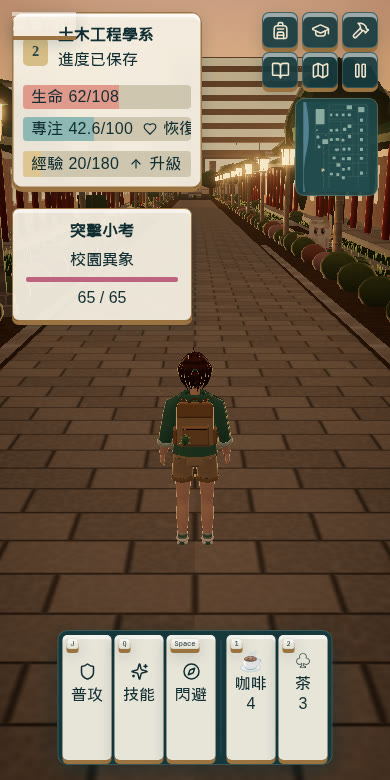
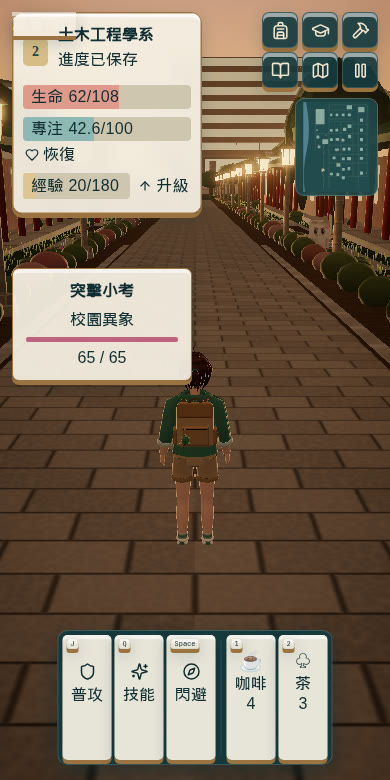
Keep status cues readable when the bar runs out of width
Cues sit outside the clipped fill and wrap onto the next line, so a 190px card still shows recovery, hurt, and low life. The narrow target card moves down with the taller status card.

Changed region(s): [[0.0308, 0.1538, 0.5231, 0.4923]]

diff --git a/src/game/rpg/AdventureHud.tsx b/src/game/rpg/AdventureHud.tsx
@@ -986,16 +986,18 @@ function LifeMeter() {
   const read = useRef(holdLife()).current;
   const bar = read(snap);
   return (
-    <div
-      className="ad-meter hp"
-      role="meter"
-      aria-valuemin={0}
-      aria-valuenow={bar.current}
-      aria-valuemax={bar.max}
-      aria-label={bar.line}
-    >
-      <i style={{ width: bar.fraction * 100 + "%" }} />
-      <span>{bar.short}</span>
+    <div className="ad-readout">
+      <div
+        className="ad-meter hp"
+        role="meter"
+        aria-valuemin={0}
+        aria-valuenow={bar.current}
+        aria-valuemax={bar.max}
+        aria-label={bar.line}
+      >
+        <i style={{ width: bar.fraction * 100 + "%" }} />
+        <span>{bar.short}</span>
+      </div>
       {bar.cues.map((cue) => (
         <StatusCueMark key={cue.id} id={cue.id} />
       ))}
@@ -1007,16 +1009,18 @@ function FocusMeter() {
   const read = useRef(holdFocus()).current;
   const bar = read({ focus });
   return (
-    <div
-      className="ad-meter focus"
-      role="meter"
-      aria-valuemin={0}
-      aria-valuenow={bar.current}
-      aria-valuemax={bar.max}
-      aria-label={bar.line}
-    >
-      <i style={{ width: bar.fraction * 100 + "%" }} />
-      <span>{bar.short}</span>
+    <div className="ad-readout">
+      <div
+        className="ad-meter focus"
+        role="meter"
+        aria-valuemin={0}
+        aria-valuenow={bar.current}
+        aria-valuemax={bar.max}
+        aria-label={bar.line}
+      >
+        <i style={{ width: bar.fraction * 100 + "%" }} />
+        <span>{bar.short}</span>
+      </div>
       {bar.cues.map((cue) => (
         <StatusCueMark key={cue.id} id={cue.id} />
       ))}
@@ -1030,16 +1034,18 @@ function ProgressMeter() {
   return (
     <>
       <span className="ad-level">{bar.level}</span>
-      <div
-        className="ad-xp"
-        role="meter"
-        aria-valuemin={0}
-        aria-valuenow={bar.current}
-        aria-valuemax={bar.max}
-        aria-label={bar.line}
-      >
-        <i style={{ width: bar.fraction * 100 + "%" }} />
-        <span>{bar.short}</span>
+      <div className="ad-readout">
+        <div
+          className="ad-xp"
+          role="meter"
+          aria-valuemin={0}
+          aria-valuenow={bar.current}
+          aria-valuemax={bar.max}
+          aria-label={bar.line}
+        >
+          <i style={{ width: bar.fraction * 100 + "%" }} />
+          <span>{bar.short}</span>
+        </div>
         {bar.cues.map((cue) => (
           <StatusCueMark key={cue.id} id={cue.id} />
         ))}

diff --git a/src/game/rpg/adventure.css b/src/game/rpg/adventure.css
@@ -297,19 +297,27 @@ textarea:focus-visible,
   display: block;
   margin-top: 3px;
 }
-.ad-meter {
-  position: relative;
+.ad-readout {
   grid-column: 1 / -1;
   display: flex;
+  flex-wrap: wrap;
   align-items: center;
-  gap: 6px;
+  gap: 4px 6px;
+  margin: 4px 0;
+}
+.ad-meter {
+  position: relative;
+  display: flex;
+  align-items: center;
+  flex: 1 1 auto;
+  min-width: min-content;
+  max-width: 100%;
   min-height: 28px;
   height: auto;
   padding: 2px 6px;
   background: #cfc6b0;
   border-radius: 4px;
   overflow: hidden;
-  margin: 4px 0;
   color: var(--ad-ink);
 }
 .ad-meter i {
@@ -343,17 +351,17 @@ textarea:focus-visible,
 }
 .ad-xp {
   position: relative;
-  grid-column: 1 / -1;
   display: flex;
   align-items: center;
-  gap: 6px;
+  flex: 1 1 auto;
+  min-width: min-content;
+  max-width: 100%;
   min-height: 26px;
   height: auto;
   padding: 2px 6px;
   background: #cfc6b0;
   border-radius: 4px;
   overflow: hidden;
-  margin-top: 6px;
   color: var(--ad-ink);
 }
 .ad-xp i {
@@ -1834,7 +1842,7 @@ textarea:focus-visible,
 }
 @media (max-width: 700px) {
   .ad-target {
-    top: 208px;
+    top: 268px;
     left: 12px;
     transform: none;
     width: 180px;

diff --git a/docs/art/KNOWN-ISSUES.md b/docs/art/KNOWN-ISSUES.md
@@ -12,7 +12,7 @@
 | KI-06 | 技能 | needs_review | 九學院都有專屬特效，也各有施放姿勢（`evidence/m2/cast-poses.jpg`）。商管金幣在單一目標上會疊成一串。普攻光刃在 0.06–0.25 秒從右側移到左側，不再放大到判定半徑（`evidence/m2/basic-swing.jpg`）。蓄力那一幀刃還容易藏在身體後面。 | 金幣散開；蓄力幀把刃再往外移一點 |
 | KI-07 | 判定時序 | 設計限制 | `attack()` 同一幀完成扣血，技能沒有可延後的「預備」；預備以冷卻結束的就緒提示呈現，命中特效從 t = 0 開始。 | 若要真正的前搖需改戰鬥規則，超出美術範圍 |
 | KI-08 | 預警形狀 | 設計限制 | 敵人攻擊判定是圓形（`radius + 2.5`），因此預警只能是圓；不畫錐形或直線以免誤導。 | 若改判定再改圖 |
-| KI-09 | UI | 已處理 | 狀態卡可見文字改成「生命 62/108」這種短標籤，畫在淺色長條上；長句留在 aria-label。390px 寬時目標卡改到狀態卡下方，不再蓋住經驗條。 | ART-090 其餘：技能圖示、地圖標記、受擊回饋 |
+| KI-09 | UI | 已處理 | 狀態卡可見文字是「生命 62/108」這種短標籤。提示（恢復、受傷、低生命、升級）在長條外面，窄卡放不下就換行，不再被填色區裁掉。長句留在 aria-label。 | ART-090 其餘：技能圖示、地圖標記、受擊回饋 |
 | KI-10 | 標題 | planned | 標題鏡頭右側有大塊米色遮擋幾何。 | 查明來源物件後修正 |
 | KI-11 | 效能預算 | planned | 改造前就存在：高畫質戶外 2.74 M 三角形，超過 `reality-regression.mjs` 的 1.6 M。 | ART-102 |
 | KI-12 | 量測 | blocked | 無手機與 GPU；所有手機／桌面目標 `pending-device`。 | ART-101 |
